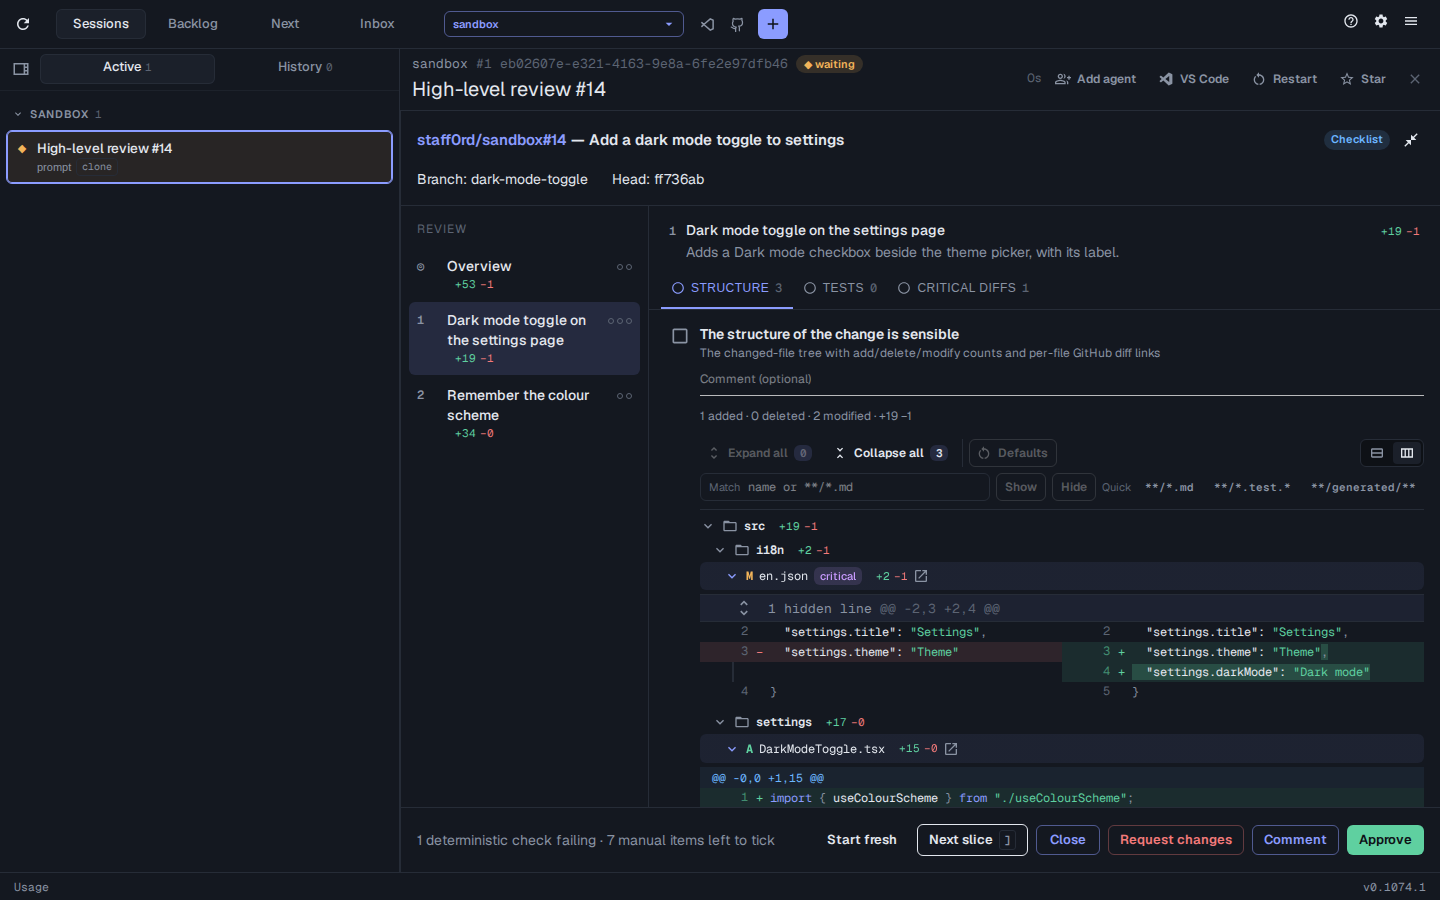
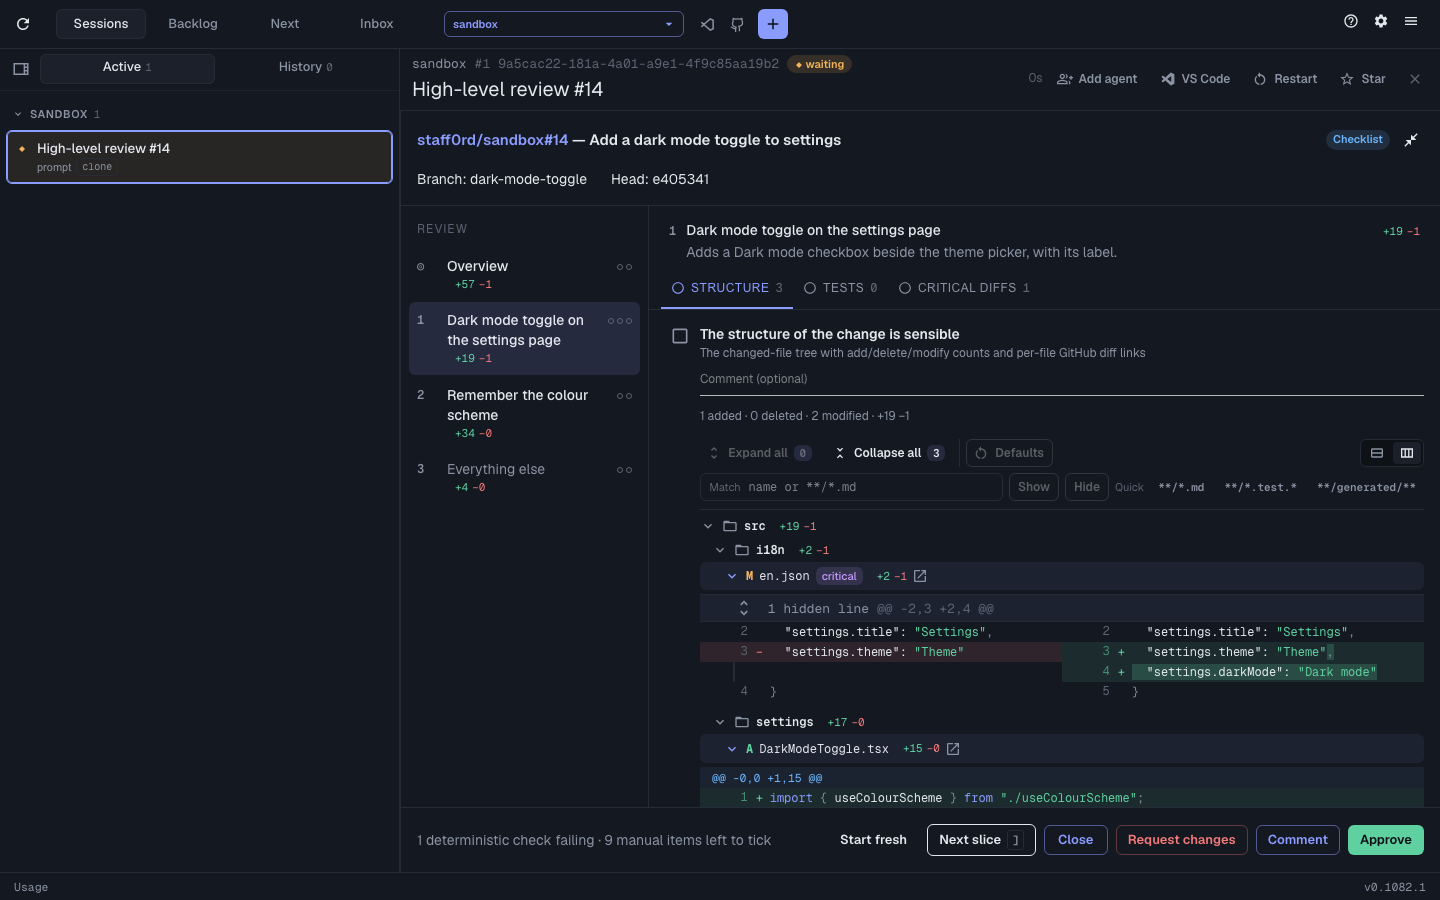
docs: add slices rail screenshot

diff --git a/docs/src/content/docs/sessions-high-level-review.md b/docs/src/content/docs/sessions-high-level-review.md
@@ -100,6 +100,27 @@ screenshots:
       - click: text=Remember the colour scheme
       - click: "[role='tab']:has-text('Tests')"
       - click: "[aria-label='Show the source of restores the saved scheme']"
+  - file: sessions-high-level-slices.png
+    alt: The slice rail with Overview, two slices with their line counts and tick dots, and Everything else
+    route: /sessions
+    scene: high-level-review
+    waitFor: text=Description has a What and a Why
+    viewport:
+      width: 1440
+      height: 900
+    actions:
+      - click: text=High-level review #14
+      - click: "[aria-label='Fill the window with preview']"
+      - click: text=Dark mode toggle on the settings page
+      - click: "[role='tabpanel'] input[type='checkbox']"
+      - click: "[role='tab']:has-text('Tests')"
+      - click: "[role='tabpanel'] input[type='checkbox']"
+      - click: text=Remember the colour scheme
+      - click: "[role='tabpanel'] input[type='checkbox']"
+    crop:
+      - "nav[aria-label='Slices'] > .rail-label"
+      - "nav[aria-label='Slices'] > button:last-child"
+    cropPadding: 16
 ---
 
 A high-level review is a checklist for judging a pull request without reading every line: whether its description is reviewable, whether the shape of the change matches what it says it does, and whether the few files where a mistake is expensive are right. Use it alongside an [adversarial review](../sessions-pr-review/), which does read every line.
@@ -117,6 +138,8 @@ To get back to a review from the **Review** menu, pick **Open high-level review*
 The agent first splits the pull request into slices, each one behaviour with its code, tests and wiring together, and puts whatever no slice claims in **Everything else**. It also writes steps for trying the change by hand. Reviewing the same commit again reuses them.
 
 The rail on the left lists **Overview**, then each slice with its line counts and a dot for each item you've ticked. Pick an entry to see its items as tabs. **Next slice**, or :kbd[\[] and :kbd[\]], moves between entries on the same tab, and :kbd[1] to :kbd[9] pick a tab.
+
+::screenshot{file="sessions-high-level-slices.png"}
 
 ## The checklist
 
